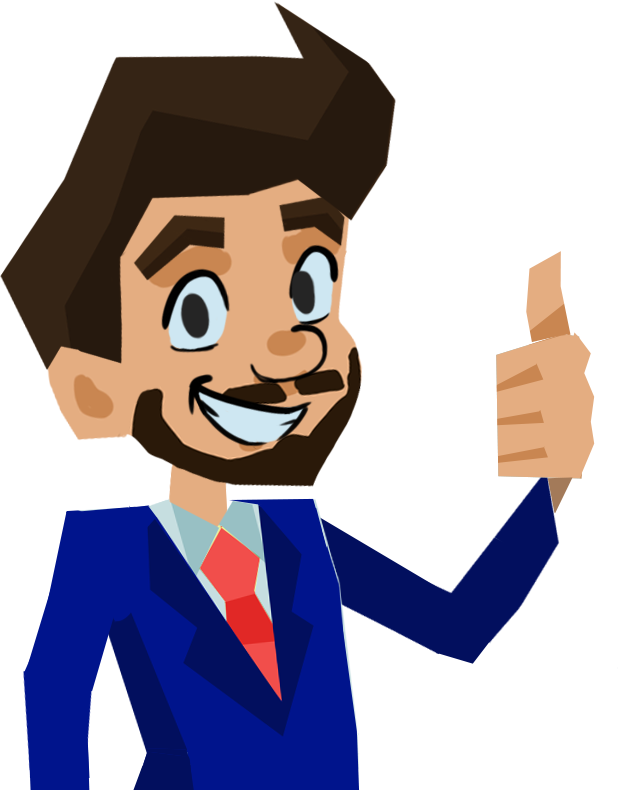
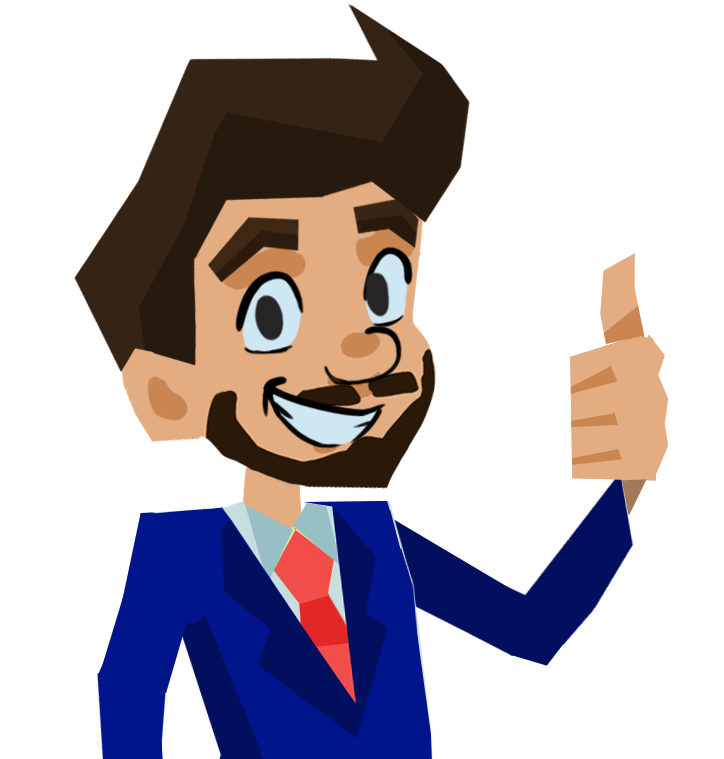
:star: All james win animation done

diff --git a/Assets/Scripts/Tom/ScoreScreen.cs b/Assets/Scripts/Tom/ScoreScreen.cs
@@ -17,6 +17,7 @@ public class ScoreScreen : MonoBehaviour
 
     void OnWinScreenDisplay(bool won, int era)
     {
+        Debug.Log("fzefzefez" + won);
         _jamesSprite.overrideSprite = _jamesSprites[GameManager.instance.Era];
         _animator.SetBool("Idle", false);
         _animator.SetBool("Won", won);
